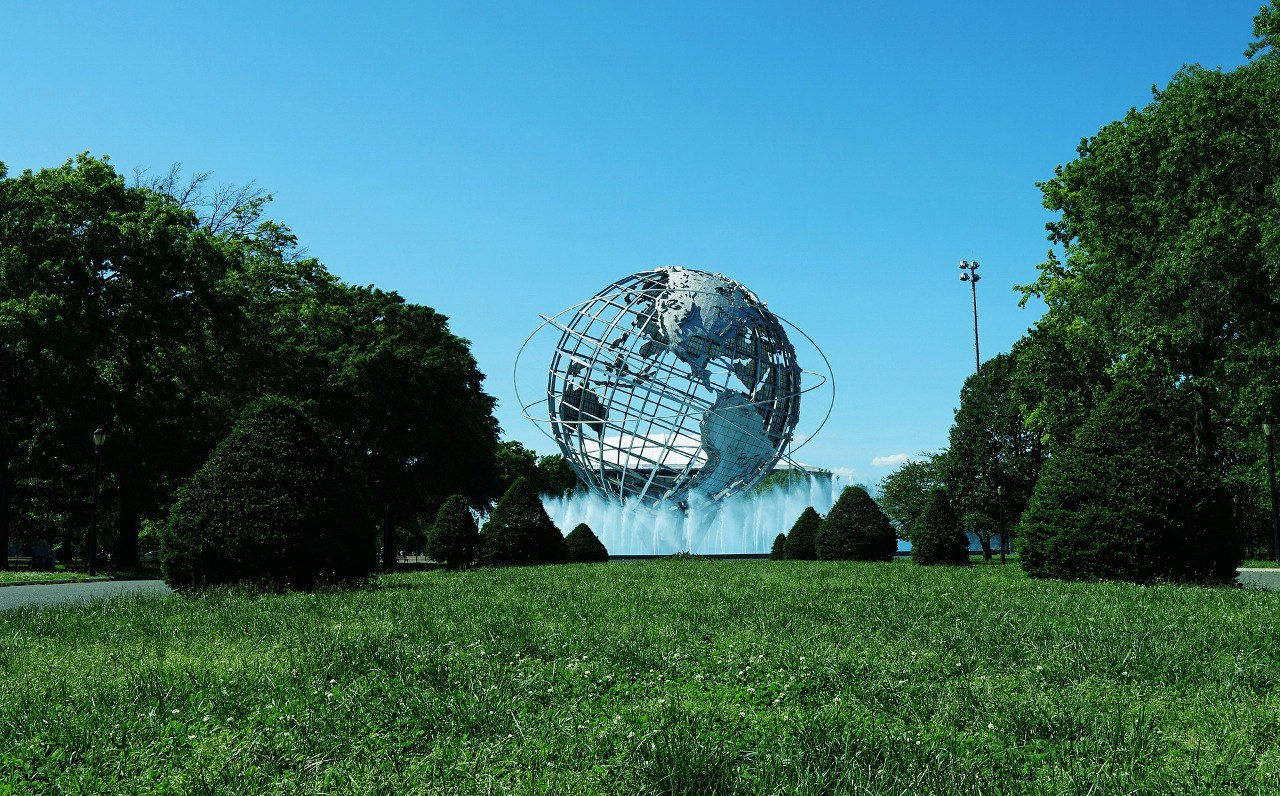
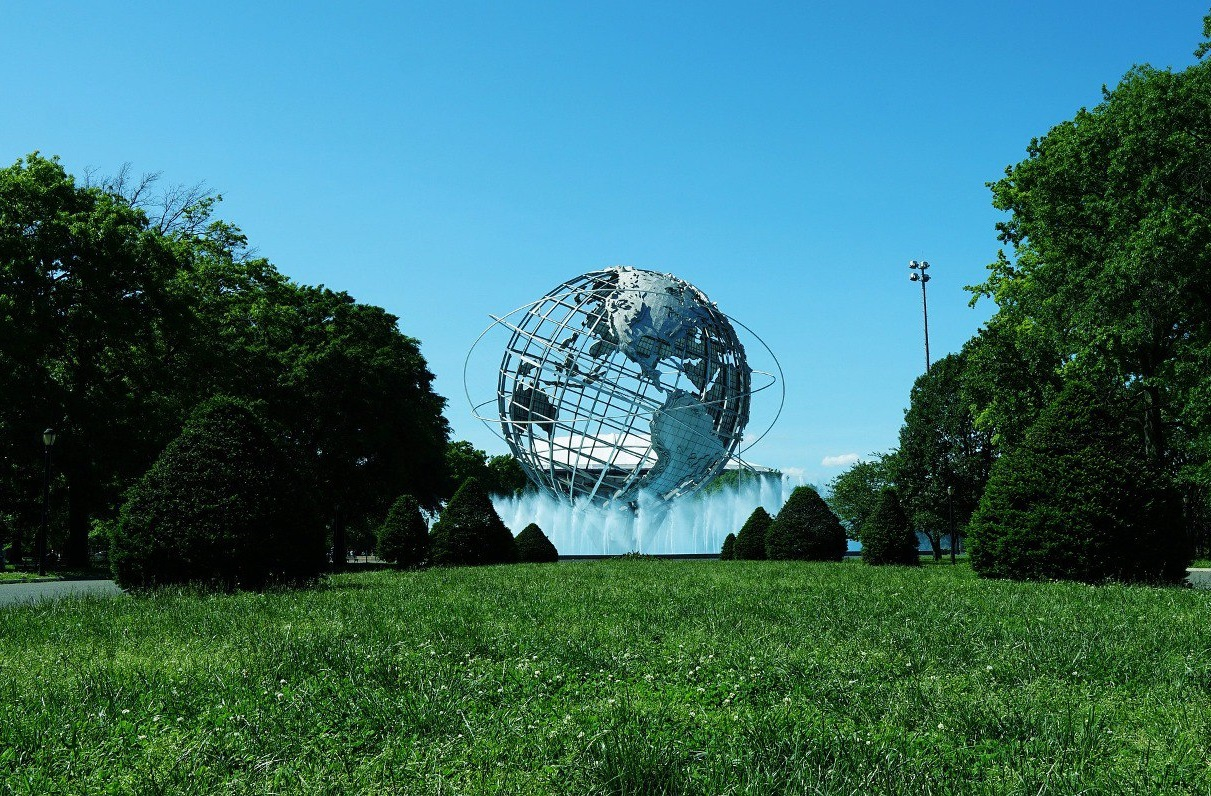
update image

diff --git a/src/pages/vision/vision.js b/src/pages/vision/vision.js
@@ -34,7 +34,7 @@ export default function Vision() {
           style={{ width: '100%' }}
         />
       </div> */}
-      <div className="w-full bg-center bg-cover h-[100vh]" style={{ backgroundImage: "url(./img/gallery/gallery20.jpg )"}}></div>
+      <div className="w-full bg-center bg-cover h-[100vh]" style={{ backgroundImage: "url(./img/gallery/gallery22.jpg )"}}></div>
       <div className="px-4 content-center z-10 relative" style={{ backgroundColor: "#B68064" }} >
         <div className="px-4 relative mt-[40px]">
           <div className="m-auto">
